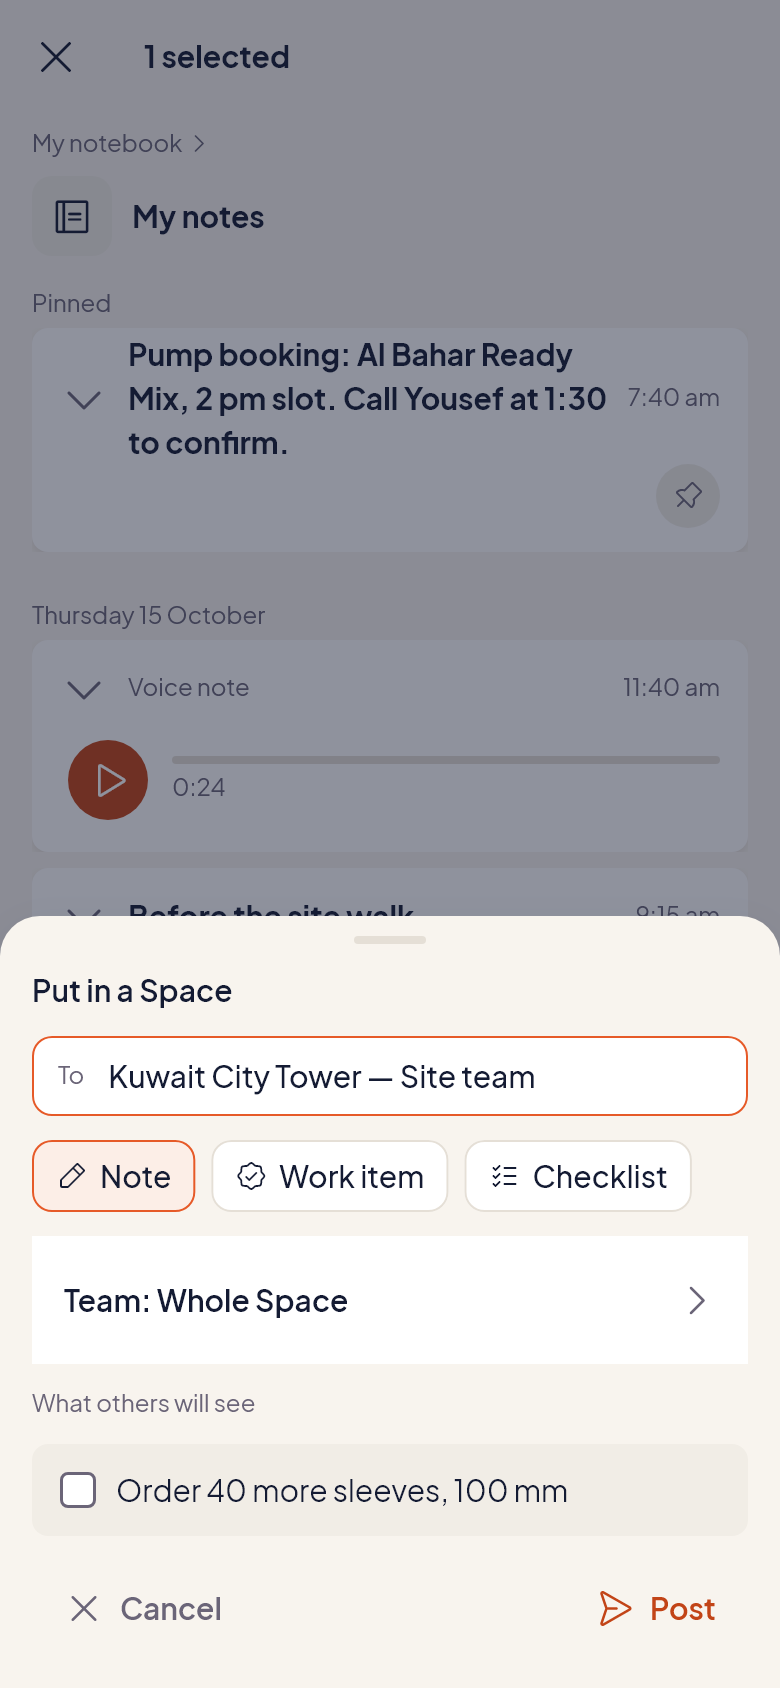
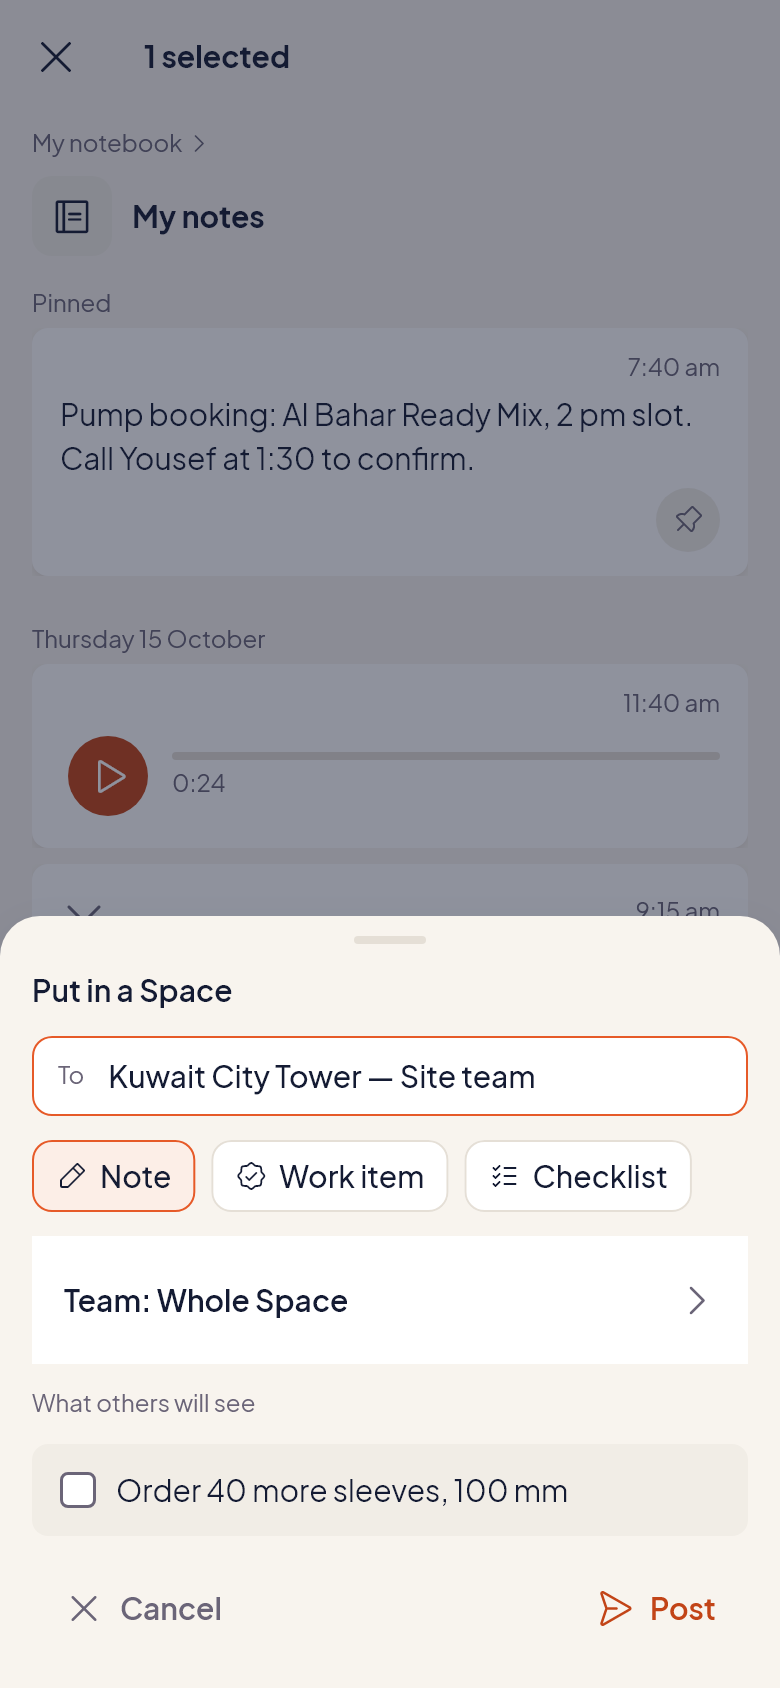
Review 106 shots after G1-G5: shots-106 replaced (the NB pairs change with G2 and G3)

diff --git a/docs/reviews/shots-106/README.md b/docs/reviews/shots-106/README.md
@@ -1,26 +1,26 @@
-# Review 106: the shots that change
+# Review 106: the shots that change (after G1–G5)
 
-`flutter test test_screens` on the PC, branch `r106`, without `--update-goldens`: 434 pass, 28 fail. The 28 are 20 tests with a changed shot (22 images; "Remind me" takes two) and the 8 new review 106 shots, which have no golden yet. Goldens are not updated.
+`flutter test test_screens` on the PC, branch `r106` after the lead's fixes G1–G5, without `--update-goldens`: 434 pass, 28 fail. The 28 are 20 tests with a changed shot (22 images; "Remind me" takes two) and the 8 new review 106 shots, which have no golden yet. Goldens are not updated.
 
 For each changed shot, `<name>_<lang>-old.png` is the golden in `docs/screens/` and `<name>_<lang>-new.png` is what the branch draws now. The new shots are `-new.png` only.
 
-Review 106 names these as changing on purpose: BH2, BH3, NB-reminder-slip, NB-remind-menu, and every notebook shot with a pinned or shared entry (T1). T2 and T3 name no shots. Any change below that is not named in the review is listed for the lead and is not accepted.
-
 ## Changed (EN and AR)
 
-| Shot | Golden | Pixels EN / AR | Named in review 106 | What changes |
+| Shot | Golden | Pixels EN / AR | From | What changes |
 |---|---|---|---|---|
-| BH2-entry-selected | r100 | 21.93% / 19.62% | yes (T1) | the status row at the bottom end; T2: entries in full with the fold control |
-| BH3-swipe | r100 | 20.82% / 18.47% | yes (T1) | the same |
-| NB-reminder-slip | slice10 | 20.96% / 16.87% | yes (T1) | pin and reminder in the status row; T2 head |
-| NB-remind-menu | slice10 | 22.22% / 18.05% | yes (T1) | the same page as NB-reminder-slip |
-| BH4-share | r100 | 12.63% / 9.73% | yes (T1: a shared entry) | the selected entry's Space icon moves from its top line to the status row; T2 head |
-| BH5-message-preview | r100 | 6.29% / 2.35% | yes (T1, as BH4) | the same, behind the preview |
-| NB-put-in-space | slice8 | 7.20% / 7.58% | yes (T1: a pinned entry) | the pinned entry behind the sheet: its pin in the status row; T2: an untitled entry's first line is its head |
-| PG4-page | r99 | 17.56% / 8.92% | no (T2) | every entry in a page: the fold chevron, the title in the head, lines in full |
-| N5-sort-chip | r102 | 14.32% / 9.93% | no (T2) | the entries under the chip, as PG4 |
-| BH9-filter | r100 | 7.09% / 6.64% | no (T3) | the Filter card: the switch "Filter", SHOW without Reminders, STATUS, IN |
-| N5-page-filter | r102 | 33.58% / 28.93% | no (T3) | the card inside a page opens in Sort mode now (NS4): the switch "Sort", five sorts with the Type and Status hints |
+| BH2-entry-selected | r100 | 21.93% / 19.62% | T1, T2 | the status row at the bottom end; the fold control in the head; lines in full |
+| BH3-swipe | r100 | 20.82% / 18.47% | T1, T2 | the same |
+| NB-reminder-slip | slice10 | 21.91% / 18.20% | T1, T2, G2 | pin and reminder in the status row; untitled entries: fold · time in the head, the words in the body at normal weight, no kind word |
+| NB-remind-menu | slice10 | 24.26% / 20.56% | T1, T2, G2 | the same page as NB-reminder-slip |
+| BH4-share | r100 | 12.63% / 9.73% | T1, T2 | the selected entry's Space icon moves from its top line to the status row |
+| BH5-message-preview | r100 | 6.29% / 2.35% | T1, T2 | the same, behind the preview |
+| NB-put-in-space | slice8 | 9.24% / 8.75% | T1, T2, G2, G3 | behind the sheet: the pinned note's pin in the status row; its head is the time alone and its words stay in the body (G2); one line, so no fold control (G3) |
+| PG4-page | r99 | 17.56% / 8.92% | T2 | every entry in a page: the fold chevron, the title in the head, lines in full |
+| N5-sort-chip | r102 | 14.32% / 9.93% | T2 | the entries under the chip, as PG4 |
+| BH9-filter | r100 | 7.09% / 6.64% | T3 | the Filter card: the switch "Filter", SHOW without Reminders, STATUS, IN |
+| N5-page-filter | r102 | 33.58% / 28.93% | T3 | the card inside a page opens in Sort mode (NS4): the switch "Sort", five sorts with the Type and Status hints |
+
+Against the pairs at `fbe1691`, only the six NB images (NB-reminder-slip, NB-remind-menu, NB-put-in-space; EN and AR) are new. The other 16 changed-shot images and the 8 new shots are byte-identical. G1 (archived entries) and G5 (the Status groups) change no shot.
 
 ## New (no golden yet)
 
@@ -30,10 +30,3 @@ Review 106 names these as changing on purpose: BH2, BH3, NB-reminder-slip, NB-re
 | r106/NS2-folded | NS2 `2682:38819` / `2682:38903` | a page in full, "Pump booked 2 pm" folded: "1 line hidden" and its status icons |
 | r106/NS3-filter-status | NS3 `2685:38859` / `2685:38978` | My notebook's card in Filter mode, To-dos open and Shared to a Space on |
 | r106/NS4-sort | NS4 `2688:38923` / `2688:39062` | the card in Sort mode inside a page |
-
-## For the lead
-
-- **N5's scenario changed.** `test_screens/r102_test.dart` opens the card in Sort mode (the switch's kept mode), because SORT is behind the switch now. Without this, N5-sort-chip couldn't be drawn at all. N5-page-filter therefore shows Sort mode.
-- **The switch's off colour** is `BvSwitch`'s own off track (`borderInput`). NS3 draws it lighter. I kept the component's colour; say if NS3's should win.
-- **An untitled entry's head** is its first line (T2). A long one-line note becomes a three-line bold head with no body (NB-put-in-space, "Pump booking: …"). A to-do or a voice note keeps its kind word as the head, so its box or player isn't lost.
-- **The fold control's 44 tap area** makes the head 44 high, so the gap under the title is about 6 px larger than NS2's.
